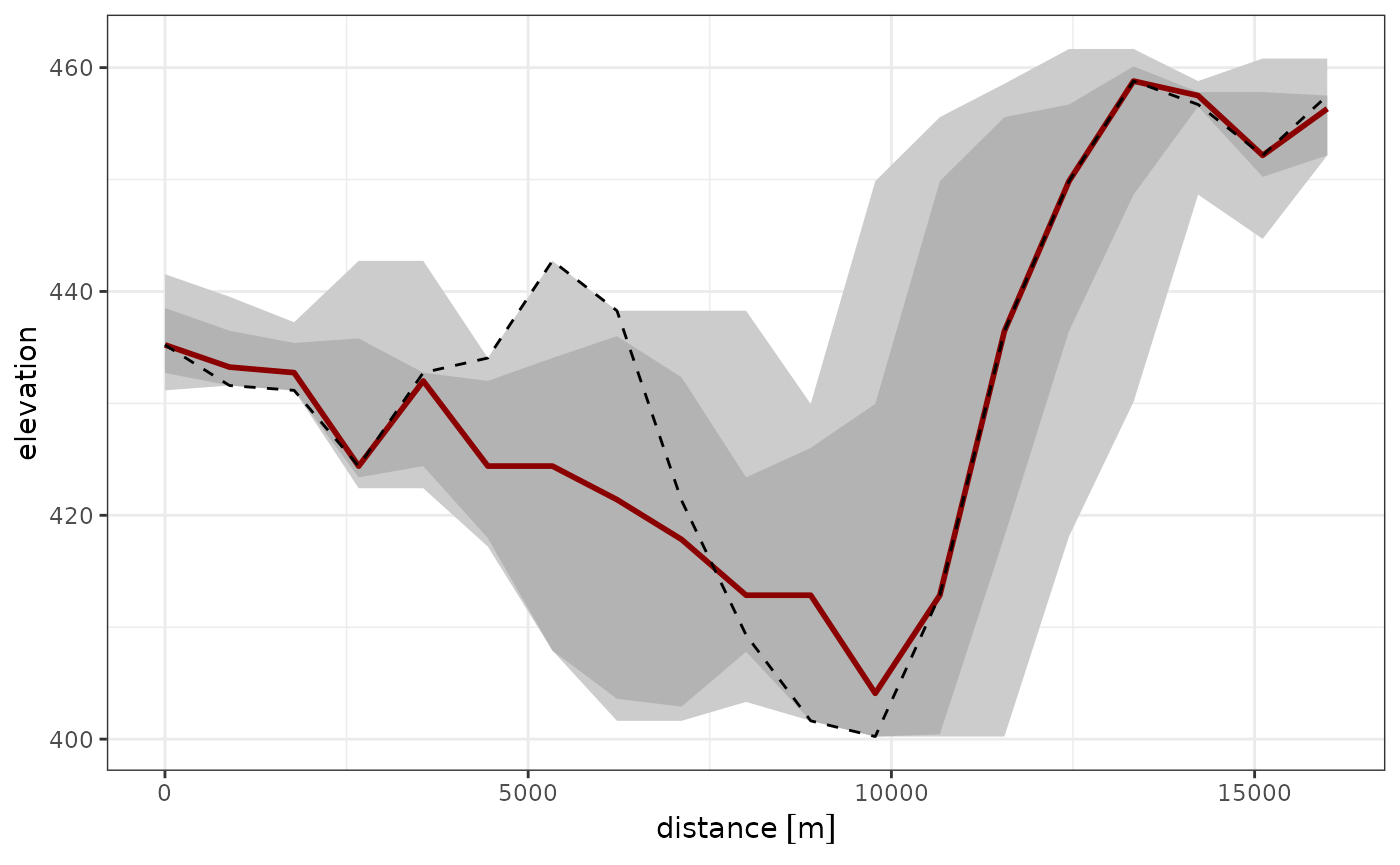
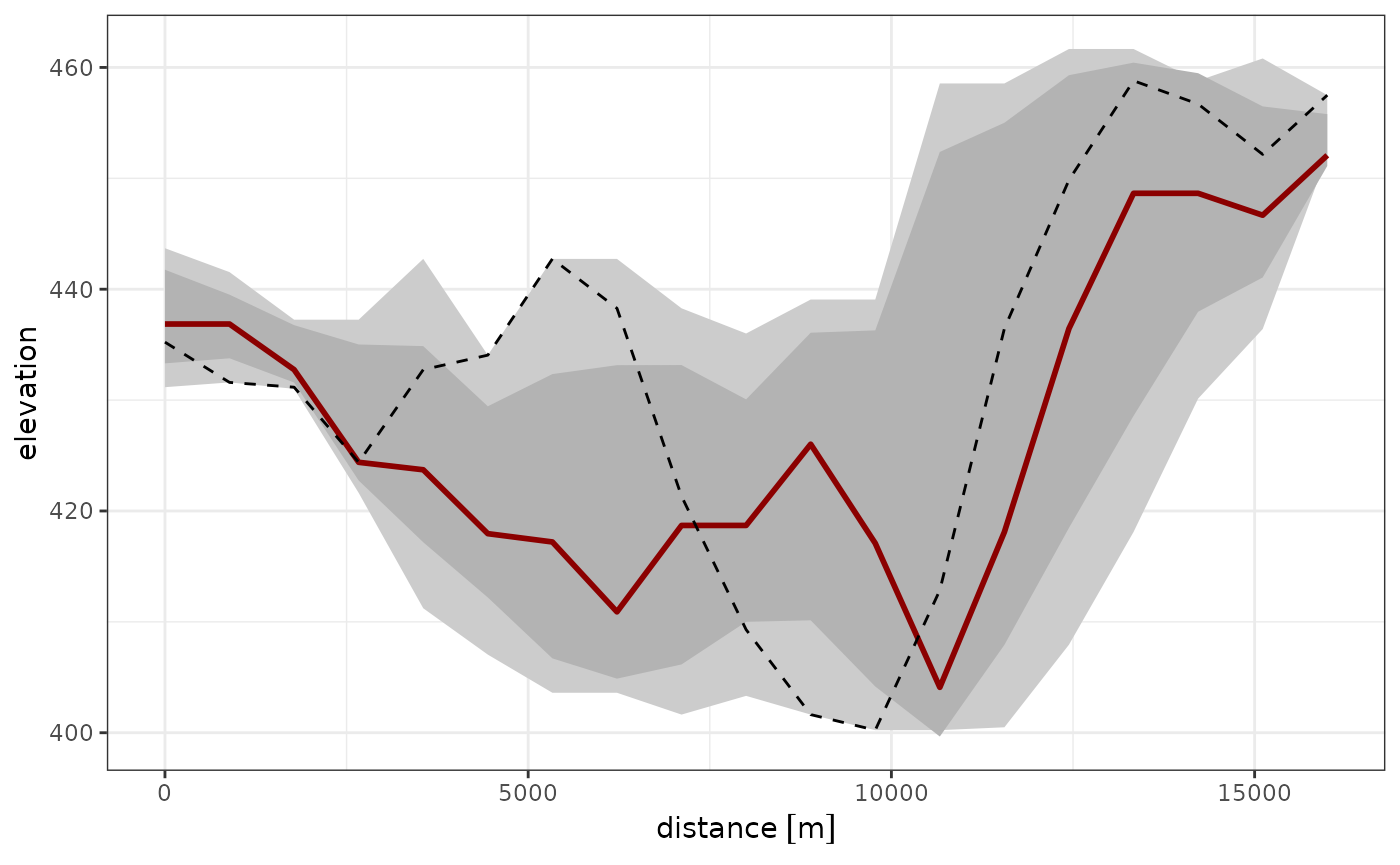
Deploying to gh-pages from @ tobiste/geoprofiler@12e6373eec536d38adeee2c8d5abac5afc78c336 🚀

diff --git a/reference/swath_stats.html b/reference/swath_stats.html
@@ -89,24 +89,24 @@ distance is returned, i.e. 0 at start and 1 at the end of the profile.</p></dd>
 <span class="r-in"><span></span></span>
 <span class="r-in"><span><span class="fu">swath_stats</span><span class="op">(</span><span class="va">swath</span>, profile.length <span class="op">=</span> <span class="fu"><a href="profile_length.html">profile_length</a></span><span class="op">(</span><span class="fu"><a href="profile_line.html">profile_line</a></span><span class="op">(</span><span class="va">profile</span><span class="op">)</span><span class="op">)</span><span class="op">)</span></span></span>
 <span class="r-out co"><span class="r-pr">#&gt;</span> <span style="color: #949494;"># A tibble: 16 × 9</span></span>
-<span class="r-out co"><span class="r-pr">#&gt;</span>    distance elevation   min  mean     sd quantile25 median quantile75   max</span>
-<span class="r-out co"><span class="r-pr">#&gt;</span>         <span style="color: #949494;">[m]</span>     <span style="color: #949494; font-style: italic;">&lt;dbl&gt;</span> <span style="color: #949494; font-style: italic;">&lt;dbl&gt;</span> <span style="color: #949494; font-style: italic;">&lt;dbl&gt;</span>  <span style="color: #949494; font-style: italic;">&lt;dbl&gt;</span>      <span style="color: #949494; font-style: italic;">&lt;dbl&gt;</span>  <span style="color: #949494; font-style: italic;">&lt;dbl&gt;</span>      <span style="color: #949494; font-style: italic;">&lt;dbl&gt;</span> <span style="color: #949494; font-style: italic;">&lt;dbl&gt;</span></span>
-<span class="r-out co"><span class="r-pr">#&gt;</span> <span style="color: #BCBCBC;"> 1</span>       0      0.817 0.257 0.444 0.264       0.257  0.261      0.354 0.817</span>
-<span class="r-out co"><span class="r-pr">#&gt;</span> <span style="color: #BCBCBC;"> 2</span>  <span style="text-decoration: underline;">349</span>377.     0.718 0.381 0.573 0.169       0.381  0.477      0.592 0.792</span>
-<span class="r-out co"><span class="r-pr">#&gt;</span> <span style="color: #BCBCBC;"> 3</span>  <span style="text-decoration: underline;">698</span>755.     0.416 0.332 0.562 0.231       0.332  0.416      0.559 0.893</span>
-<span class="r-out co"><span class="r-pr">#&gt;</span> <span style="color: #BCBCBC;"> 4</span> 1<span style="text-decoration: underline;">048</span>132.     0.430 0.408 0.507 0.110       0.408  0.430      0.499 0.674</span>
-<span class="r-out co"><span class="r-pr">#&gt;</span> <span style="color: #BCBCBC;"> 5</span> 1<span style="text-decoration: underline;">397</span>509.     0.723 0.368 0.515 0.139       0.368  0.435      0.515 0.723</span>
-<span class="r-out co"><span class="r-pr">#&gt;</span> <span style="color: #BCBCBC;"> 6</span> 1<span style="text-decoration: underline;">746</span>887.     0.746 0.299 0.583 0.246       0.299  0.441      0.663 0.910</span>
-<span class="r-out co"><span class="r-pr">#&gt;</span> <span style="color: #BCBCBC;"> 7</span> 2<span style="text-decoration: underline;">096</span>264.     0.684 0.452 0.527 0.089<span style="text-decoration: underline;">6</span>      0.452  0.464      0.527 0.684</span>
-<span class="r-out co"><span class="r-pr">#&gt;</span> <span style="color: #BCBCBC;"> 8</span> 2<span style="text-decoration: underline;">445</span>641.     0.676 0.382 0.527 0.115       0.382  0.517      0.551 0.676</span>
-<span class="r-out co"><span class="r-pr">#&gt;</span> <span style="color: #BCBCBC;"> 9</span> 2<span style="text-decoration: underline;">795</span>018.     0.287 0.287 0.487 0.145       0.287  0.487      0.553 0.637</span>
-<span class="r-out co"><span class="r-pr">#&gt;</span> <span style="color: #BCBCBC;">10</span> 3<span style="text-decoration: underline;">144</span>396.     0.770 0.497 0.612 0.136       0.497  0.530      0.596 0.832</span>
-<span class="r-out co"><span class="r-pr">#&gt;</span> <span style="color: #BCBCBC;">11</span> 3<span style="text-decoration: underline;">493</span>773.     0.722 0.254 0.478 0.181       0.254  0.439      0.531 0.722</span>
-<span class="r-out co"><span class="r-pr">#&gt;</span> <span style="color: #BCBCBC;">12</span> 3<span style="text-decoration: underline;">843</span>150.     0.495 0.313 0.451 0.149       0.313  0.350      0.484 0.735</span>
-<span class="r-out co"><span class="r-pr">#&gt;</span> <span style="color: #BCBCBC;">13</span> 4<span style="text-decoration: underline;">192</span>528.     0.487 0.274 0.483 0.186       0.274  0.379      0.487 0.697</span>
-<span class="r-out co"><span class="r-pr">#&gt;</span> <span style="color: #BCBCBC;">14</span> 4<span style="text-decoration: underline;">541</span>905.     0.370 0.363 0.450 0.146       0.363  0.363      0.390 0.702</span>
-<span class="r-out co"><span class="r-pr">#&gt;</span> <span style="color: #BCBCBC;">15</span> 4<span style="text-decoration: underline;">891</span>282.     0.482 0.482 0.559 0.108       0.482  0.482      0.521 0.712</span>
-<span class="r-out co"><span class="r-pr">#&gt;</span> <span style="color: #BCBCBC;">16</span> 5<span style="text-decoration: underline;">240</span>660.     0.502 0.502 0.502 0           0.377  0.502      0.502 0.502</span>
+<span class="r-out co"><span class="r-pr">#&gt;</span>    distance elevation   min quantile25 median quantile75   max  mean     sd</span>
+<span class="r-out co"><span class="r-pr">#&gt;</span>         <span style="color: #949494;">[m]</span>     <span style="color: #949494; font-style: italic;">&lt;dbl&gt;</span> <span style="color: #949494; font-style: italic;">&lt;dbl&gt;</span>      <span style="color: #949494; font-style: italic;">&lt;dbl&gt;</span>  <span style="color: #949494; font-style: italic;">&lt;dbl&gt;</span>      <span style="color: #949494; font-style: italic;">&lt;dbl&gt;</span> <span style="color: #949494; font-style: italic;">&lt;dbl&gt;</span> <span style="color: #949494; font-style: italic;">&lt;dbl&gt;</span>  <span style="color: #949494; font-style: italic;">&lt;dbl&gt;</span></span>
+<span class="r-out co"><span class="r-pr">#&gt;</span> <span style="color: #BCBCBC;"> 1</span>       0      0.817 0.257      0.257  0.257      0.257 0.817 0.417 0.253 </span>
+<span class="r-out co"><span class="r-pr">#&gt;</span> <span style="color: #BCBCBC;"> 2</span>  <span style="text-decoration: underline;">349</span>377.     0.718 0.381      0.381  0.487      0.655 0.792 0.575 0.164 </span>
+<span class="r-out co"><span class="r-pr">#&gt;</span> <span style="color: #BCBCBC;"> 3</span>  <span style="text-decoration: underline;">698</span>755.     0.416 0.332      0.353  0.416      0.624 0.893 0.566 0.223 </span>
+<span class="r-out co"><span class="r-pr">#&gt;</span> <span style="color: #BCBCBC;"> 4</span> 1<span style="text-decoration: underline;">048</span>132.     0.430 0.408      0.413  0.430      0.519 0.674 0.508 0.107 </span>
+<span class="r-out co"><span class="r-pr">#&gt;</span> <span style="color: #BCBCBC;"> 5</span> 1<span style="text-decoration: underline;">397</span>509.     0.723 0.368      0.368  0.435      0.558 0.723 0.518 0.137 </span>
+<span class="r-out co"><span class="r-pr">#&gt;</span> <span style="color: #BCBCBC;"> 6</span> 1<span style="text-decoration: underline;">746</span>887.     0.746 0.299      0.299  0.481      0.705 0.910 0.590 0.239 </span>
+<span class="r-out co"><span class="r-pr">#&gt;</span> <span style="color: #BCBCBC;"> 7</span> 2<span style="text-decoration: underline;">096</span>264.     0.684 0.452      0.452  0.464      0.522 0.684 0.528 0.091<span style="text-decoration: underline;">0</span></span>
+<span class="r-out co"><span class="r-pr">#&gt;</span> <span style="color: #BCBCBC;"> 8</span> 2<span style="text-decoration: underline;">445</span>641.     0.676 0.382      0.416  0.517      0.581 0.676 0.535 0.108 </span>
+<span class="r-out co"><span class="r-pr">#&gt;</span> <span style="color: #BCBCBC;"> 9</span> 2<span style="text-decoration: underline;">795</span>018.     0.287 0.287      0.349  0.536      0.573 0.637 0.502 0.133 </span>
+<span class="r-out co"><span class="r-pr">#&gt;</span> <span style="color: #BCBCBC;">10</span> 3<span style="text-decoration: underline;">144</span>396.     0.770 0.497      0.505  0.530      0.602 0.832 0.614 0.133 </span>
+<span class="r-out co"><span class="r-pr">#&gt;</span> <span style="color: #BCBCBC;">11</span> 3<span style="text-decoration: underline;">493</span>773.     0.722 0.254      0.300  0.439      0.574 0.722 0.490 0.172 </span>
+<span class="r-out co"><span class="r-pr">#&gt;</span> <span style="color: #BCBCBC;">12</span> 3<span style="text-decoration: underline;">843</span>150.     0.495 0.313      0.322  0.350      0.496 0.735 0.461 0.156 </span>
+<span class="r-out co"><span class="r-pr">#&gt;</span> <span style="color: #BCBCBC;">13</span> 4<span style="text-decoration: underline;">192</span>528.     0.487 0.274      0.274  0.381      0.585 0.697 0.484 0.178 </span>
+<span class="r-out co"><span class="r-pr">#&gt;</span> <span style="color: #BCBCBC;">14</span> 4<span style="text-decoration: underline;">541</span>905.     0.370 0.363      0.363  0.363      0.369 0.702 0.449 0.146 </span>
+<span class="r-out co"><span class="r-pr">#&gt;</span> <span style="color: #BCBCBC;">15</span> 4<span style="text-decoration: underline;">891</span>282.     0.482 0.482      0.482  0.482      0.482 0.712 0.548 0.104 </span>
+<span class="r-out co"><span class="r-pr">#&gt;</span> <span style="color: #BCBCBC;">16</span> 5<span style="text-decoration: underline;">240</span>660.     0.502 0.502      0.502  0.502      0.502 0.502 0.502 0     </span>
 </code></pre></div>
     </div>
   </main><aside class="col-md-3"><nav id="toc" aria-label="Table of contents"><h2>On this page</h2>

diff --git a/articles/B_Swath.html b/articles/B_Swath.html
@@ -149,25 +149,36 @@ coordinate reference system).</p>
 <p>Here, we want to have <code>k=10</code> lines on both sides of the
 profile, spaced by <code>dist=300</code> meters:</p>
 <div class="sourceCode" id="cb5"><pre class="downlit sourceCode r">
-<code class="sourceCode R"><span><span class="va">swath</span> <span class="op">&lt;-</span> <span class="fu"><a href="../reference/swath_profile.html">swath_profile</a></span><span class="op">(</span><span class="va">my_profile</span>, raster <span class="op">=</span> <span class="va">my_raster</span>, k <span class="op">=</span> <span class="fl">10</span>, dist <span class="op">=</span> <span class="fl">300</span><span class="op">)</span></span></code></pre></div>
+<code class="sourceCode R"><span><span class="va">swath</span> <span class="op">&lt;-</span> <span class="fu"><a href="../reference/swath_profile.html">swath_profile</a></span><span class="op">(</span><span class="va">my_profile</span>, raster <span class="op">=</span> <span class="va">my_raster</span>, k <span class="op">=</span> <span class="fl">5</span>, dist <span class="op">=</span> <span class="fl">1000</span><span class="op">)</span></span></code></pre></div>
+<p>The output is a list that contains the extracted elevation data and
+also the generated swath lines:</p>
+<div class="sourceCode" id="cb6"><pre class="downlit sourceCode r">
+<code class="sourceCode R"><span><span class="va">elevation_map</span> <span class="op">+</span></span>
+<span>  <span class="fu"><a href="https://ggplot2.tidyverse.org/reference/ggsf.html" class="external-link">geom_sf</a></span><span class="op">(</span>data <span class="op">=</span> <span class="va">swath</span><span class="op">$</span><span class="va">lines</span>, lwd <span class="op">=</span> <span class="fl">.1</span><span class="op">)</span></span></code></pre></div>
+<p><img src="B_Swath_files/figure-html/swath_map-1.png" width="700">
+&gt; Note that the width of the swath profile is
+<math display="inline" xmlns="http://www.w3.org/1998/Math/MathML"><semantics><mrow><mn>2</mn><mi>k</mi><mo>×</mo><mtext mathvariant="normal">dist</mtext></mrow><annotation encoding="application/x-tex">2k \times \text{dist}</annotation></semantics></math>.
+In our example, the width is 10.000 (m).</p>
 <p>Next, we calculate some summary statistics of the elevation across
 the swath, such as min/max, mean and standard deviation using the
 function <code><a href="../reference/swath_stats.html">swath_stats()</a></code>. We can plug in the length of the
 profile by specifying the parameter <code>profile.length</code> by
 calculating the length using the function
 <code><a href="../reference/profile_length.html">profile_length()</a></code>.</p>
-<div class="sourceCode" id="cb6"><pre class="downlit sourceCode r">
+<div class="sourceCode" id="cb7"><pre class="downlit sourceCode r">
 <code class="sourceCode R"><span><span class="va">my_swath_profile</span> <span class="op">&lt;-</span> <span class="fu"><a href="../reference/swath_stats.html">swath_stats</a></span><span class="op">(</span><span class="va">swath</span>, profile.length <span class="op">=</span> <span class="fu"><a href="../reference/profile_length.html">profile_length</a></span><span class="op">(</span><span class="va">my_profile</span><span class="op">)</span><span class="op">)</span></span></code></pre></div>
 </div>
 <div class="section level2">
 <h2 id="plot-the-swath-profile">Plot the swath profile<a class="anchor" aria-label="anchor" href="#plot-the-swath-profile"></a>
 </h2>
-<p>Finally we can plot the elevation along the profile and add some of
+<p>Finally, we can plot the elevation along the profile and add some of
 the calculated statistics:</p>
-<div class="sourceCode" id="cb7"><pre class="downlit sourceCode r">
+<div class="sourceCode" id="cb8"><pre class="downlit sourceCode r">
 <code class="sourceCode R"><span><span class="fu"><a href="https://ggplot2.tidyverse.org/reference/ggplot.html" class="external-link">ggplot</a></span><span class="op">(</span><span class="va">my_swath_profile</span>, <span class="fu"><a href="https://ggplot2.tidyverse.org/reference/aes.html" class="external-link">aes</a></span><span class="op">(</span><span class="va">distance</span>, <span class="va">elevation</span><span class="op">)</span><span class="op">)</span> <span class="op">+</span></span>
 <span>  <span class="fu"><a href="https://ggplot2.tidyverse.org/reference/geom_ribbon.html" class="external-link">geom_ribbon</a></span><span class="op">(</span><span class="fu"><a href="https://ggplot2.tidyverse.org/reference/aes.html" class="external-link">aes</a></span><span class="op">(</span>ymin <span class="op">=</span> <span class="va">min</span>, ymax <span class="op">=</span> <span class="va">max</span><span class="op">)</span>, fill <span class="op">=</span> <span class="st">"grey80"</span><span class="op">)</span> <span class="op">+</span></span>
-<span>  <span class="fu"><a href="https://ggplot2.tidyverse.org/reference/geom_ribbon.html" class="external-link">geom_ribbon</a></span><span class="op">(</span><span class="fu"><a href="https://ggplot2.tidyverse.org/reference/aes.html" class="external-link">aes</a></span><span class="op">(</span>ymin <span class="op">=</span> <span class="va">quantile25</span>, ymax <span class="op">=</span> <span class="va">quantile75</span><span class="op">)</span>, fill <span class="op">=</span> <span class="st">"grey70"</span><span class="op">)</span> <span class="op">+</span></span>
+<span>  <span class="co"># geom_ribbon(aes(ymin = quantile25, ymax = quantile75), fill = "grey70") +</span></span>
+<span>  <span class="fu"><a href="https://ggplot2.tidyverse.org/reference/geom_ribbon.html" class="external-link">geom_ribbon</a></span><span class="op">(</span><span class="fu"><a href="https://ggplot2.tidyverse.org/reference/aes.html" class="external-link">aes</a></span><span class="op">(</span>ymin <span class="op">=</span> <span class="va">mean</span> <span class="op">-</span> <span class="va">sd</span>, ymax <span class="op">=</span> <span class="va">mean</span> <span class="op">+</span> <span class="va">sd</span><span class="op">)</span>, fill <span class="op">=</span> <span class="st">"grey70"</span><span class="op">)</span> <span class="op">+</span></span>
+<span></span>
 <span>  <span class="fu"><a href="https://ggplot2.tidyverse.org/reference/geom_path.html" class="external-link">geom_line</a></span><span class="op">(</span><span class="fu"><a href="https://ggplot2.tidyverse.org/reference/aes.html" class="external-link">aes</a></span><span class="op">(</span>y <span class="op">=</span> <span class="va">median</span><span class="op">)</span>, color <span class="op">=</span> <span class="st">"darkred"</span>, lwd <span class="op">=</span> <span class="fl">1</span><span class="op">)</span> <span class="op">+</span></span>
 <span>  <span class="fu"><a href="https://ggplot2.tidyverse.org/reference/geom_path.html" class="external-link">geom_line</a></span><span class="op">(</span>lty <span class="op">=</span> <span class="fl">2</span><span class="op">)</span></span></code></pre></div>
 <p><img src="B_Swath_files/figure-html/plot-1.png" width="700"></p>

diff --git a/reference/swath_profile.html b/reference/swath_profile.html
@@ -119,10 +119,14 @@ row</p><dl><dt>column 1</dt>
 raster along each line</p></dd>
 
 <dt><code>lines</code></dt>
-<dd><p>list of of the lines as <code>"SpatVector"</code> objects</p></dd>
+<dd><p>swath lines as <code>"sf"</code> objects</p></dd>
 
 
 </dl></div>
+    <div class="section level2">
+    <h2 id="details">Details<a class="anchor" aria-label="anchor" href="#details"></a></h2>
+    <p>The final width of the swath is: \(2k \times  \text{dist}\).</p>
+    </div>
     <div class="section level2">
     <h2 id="see-also">See also<a class="anchor" aria-label="anchor" href="#see-also"></a></h2>
     <div class="dont-index"><p><code><a href="swath_stats.html">swath_stats()</a></code></p></div>
@@ -180,41 +184,17 @@ raster along each line</p></dd>
 <span class="r-out co"><span class="r-pr">#&gt;</span> </span>
 <span class="r-out co"><span class="r-pr">#&gt;</span> </span>
 <span class="r-out co"><span class="r-pr">#&gt;</span> $lines</span>
-<span class="r-out co"><span class="r-pr">#&gt;</span> $lines[[1]]</span>
-<span class="r-out co"><span class="r-pr">#&gt;</span>  class       : SpatVector </span>
-<span class="r-out co"><span class="r-pr">#&gt;</span>  geometry    : lines </span>
-<span class="r-out co"><span class="r-pr">#&gt;</span>  dimensions  : 1, 0  (geometries, attributes)</span>
-<span class="r-out co"><span class="r-pr">#&gt;</span>  extent      : -138.971, -88.97101, 26.71499, 56.71499  (xmin, xmax, ymin, ymax)</span>
-<span class="r-out co"><span class="r-pr">#&gt;</span>  coord. ref. : lon/lat WGS 84 (EPSG:4326) </span>
-<span class="r-out co"><span class="r-pr">#&gt;</span> </span>
-<span class="r-out co"><span class="r-pr">#&gt;</span> $lines[[2]]</span>
-<span class="r-out co"><span class="r-pr">#&gt;</span>  class       : SpatVector </span>
-<span class="r-out co"><span class="r-pr">#&gt;</span>  geometry    : lines </span>
-<span class="r-out co"><span class="r-pr">#&gt;</span>  dimensions  : 1, 0  (geometries, attributes)</span>
-<span class="r-out co"><span class="r-pr">#&gt;</span>  extent      : -139.4855, -89.4855, 25.85749, 55.85749  (xmin, xmax, ymin, ymax)</span>
-<span class="r-out co"><span class="r-pr">#&gt;</span>  coord. ref. : lon/lat WGS 84 (EPSG:4326) </span>
-<span class="r-out co"><span class="r-pr">#&gt;</span> </span>
-<span class="r-out co"><span class="r-pr">#&gt;</span> $lines[[3]]</span>
-<span class="r-out co"><span class="r-pr">#&gt;</span>  class       : SpatVector </span>
-<span class="r-out co"><span class="r-pr">#&gt;</span>  geometry    : lines </span>
-<span class="r-out co"><span class="r-pr">#&gt;</span>  dimensions  : 1, 0  (geometries, attributes)</span>
-<span class="r-out co"><span class="r-pr">#&gt;</span>  extent      : -140, -90, 25, 55  (xmin, xmax, ymin, ymax)</span>
-<span class="r-out co"><span class="r-pr">#&gt;</span>  coord. ref. : lon/lat WGS 84 (EPSG:4326) </span>
-<span class="r-out co"><span class="r-pr">#&gt;</span> </span>
-<span class="r-out co"><span class="r-pr">#&gt;</span> $lines[[4]]</span>
-<span class="r-out co"><span class="r-pr">#&gt;</span>  class       : SpatVector </span>
-<span class="r-out co"><span class="r-pr">#&gt;</span>  geometry    : lines </span>
-<span class="r-out co"><span class="r-pr">#&gt;</span>  dimensions  : 1, 0  (geometries, attributes)</span>
-<span class="r-out co"><span class="r-pr">#&gt;</span>  extent      : -140.5145, -90.5145, 24.14251, 54.14251  (xmin, xmax, ymin, ymax)</span>
-<span class="r-out co"><span class="r-pr">#&gt;</span>  coord. ref. : lon/lat WGS 84 (EPSG:4326) </span>
-<span class="r-out co"><span class="r-pr">#&gt;</span> </span>
-<span class="r-out co"><span class="r-pr">#&gt;</span> $lines[[5]]</span>
-<span class="r-out co"><span class="r-pr">#&gt;</span>  class       : SpatVector </span>
-<span class="r-out co"><span class="r-pr">#&gt;</span>  geometry    : lines </span>
-<span class="r-out co"><span class="r-pr">#&gt;</span>  dimensions  : 1, 0  (geometries, attributes)</span>
-<span class="r-out co"><span class="r-pr">#&gt;</span>  extent      : -141.029, -91.02899, 23.28501, 53.28501  (xmin, xmax, ymin, ymax)</span>
-<span class="r-out co"><span class="r-pr">#&gt;</span>  coord. ref. : lon/lat WGS 84 (EPSG:4326) </span>
-<span class="r-out co"><span class="r-pr">#&gt;</span> </span>
+<span class="r-out co"><span class="r-pr">#&gt;</span> Simple feature collection with 5 features and 0 fields</span>
+<span class="r-out co"><span class="r-pr">#&gt;</span> Geometry type: LINESTRING</span>
+<span class="r-out co"><span class="r-pr">#&gt;</span> Dimension:     XY</span>
+<span class="r-out co"><span class="r-pr">#&gt;</span> Bounding box:  xmin: -141.029 ymin: 23.28501 xmax: -88.97101 ymax: 56.71499</span>
+<span class="r-out co"><span class="r-pr">#&gt;</span> Geodetic CRS:  WGS 84</span>
+<span class="r-out co"><span class="r-pr">#&gt;</span>                         geometry</span>
+<span class="r-out co"><span class="r-pr">#&gt;</span> 1 LINESTRING (-138.971 56.714...</span>
+<span class="r-out co"><span class="r-pr">#&gt;</span> 2 LINESTRING (-139.4855 55.85...</span>
+<span class="r-out co"><span class="r-pr">#&gt;</span> 3   LINESTRING (-140 55, -90 25)</span>
+<span class="r-out co"><span class="r-pr">#&gt;</span> 4 LINESTRING (-140.5145 54.14...</span>
+<span class="r-out co"><span class="r-pr">#&gt;</span> 5 LINESTRING (-141.029 53.285...</span>
 <span class="r-out co"><span class="r-pr">#&gt;</span> </span>
 </code></pre></div>
     </div>
